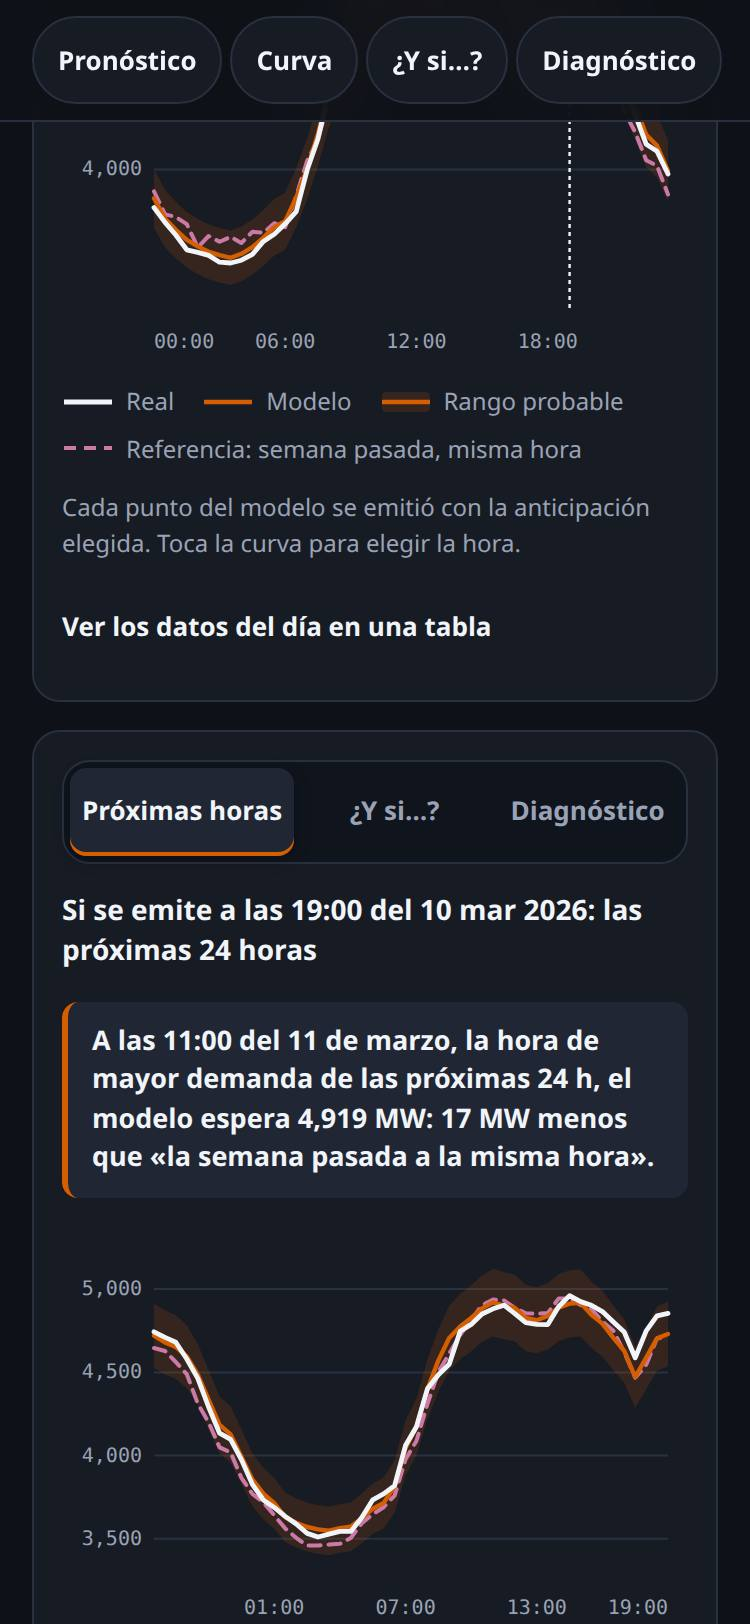
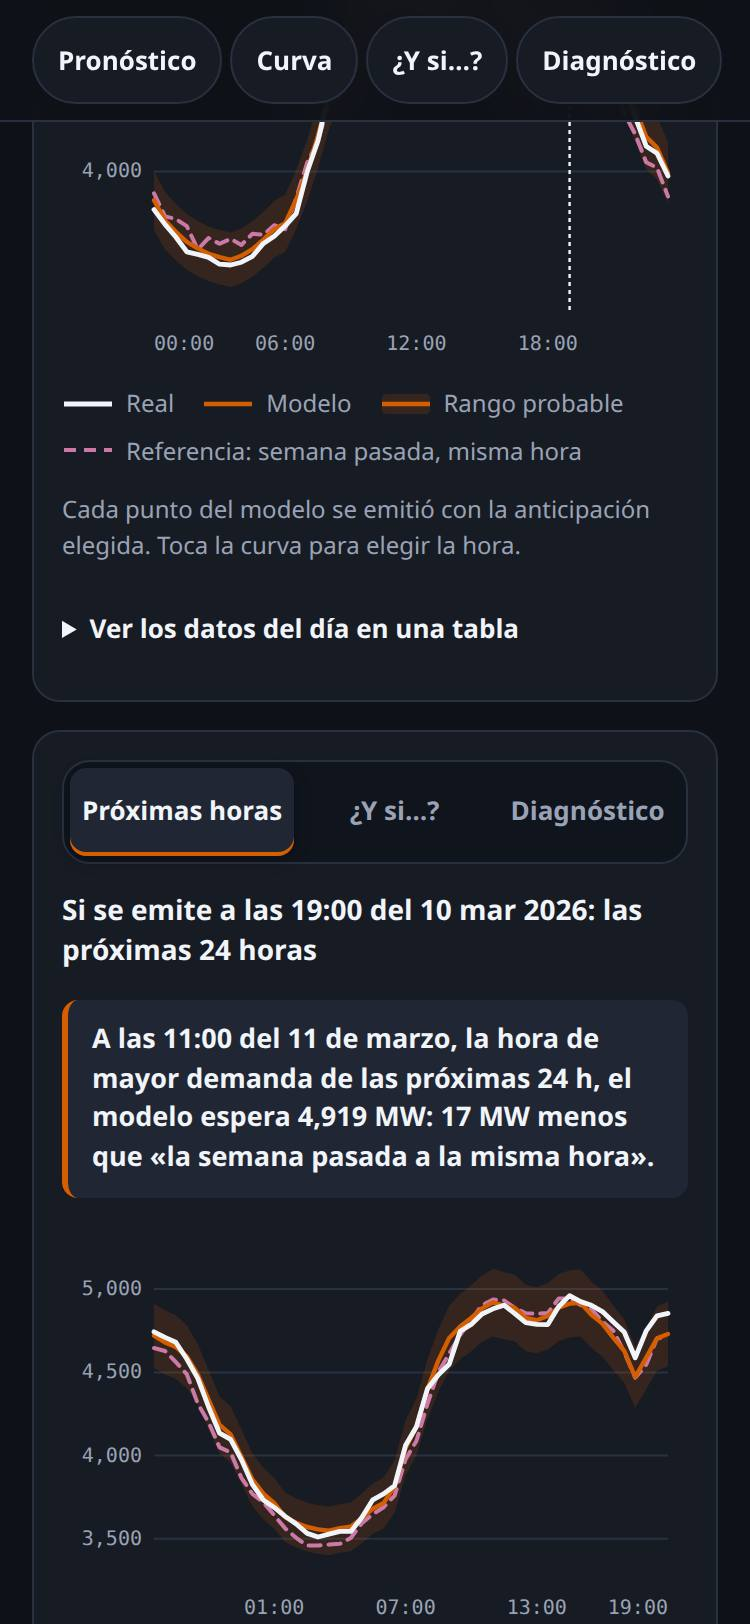
App: el desplegable de la tabla conserva su triángulo en pantallas táctiles
Y la etiqueta de la barra de la referencia ya no se corta. Ninguna métrica
medida cambia (tareas, axe, foco y estructura, re-medidos).

diff --git a/app/web/style.css b/app/web/style.css
@@ -1270,7 +1270,7 @@ select {
 
 .barra-fila {
   display: grid;
-  grid-template-columns: minmax(0, 9.5em) 1fr auto;
+  grid-template-columns: minmax(0, 13em) 1fr auto;
   align-items: center;
   gap: 8px;
   font-size: 12.5px;
@@ -1411,8 +1411,7 @@ select {
   .nav-secciones button,
   select,
   input[type='date'],
-  .time-pill,
-  .tabla-datos summary {
+  .time-pill {
     min-height: 44px;
   }
 
@@ -1431,8 +1430,7 @@ select {
   }
 
   .tabla-datos summary {
-    display: flex;
-    align-items: center;
+    padding: 12px 0; /* 44 px sin perder el triángulo del desplegable */
   }
 }
 
